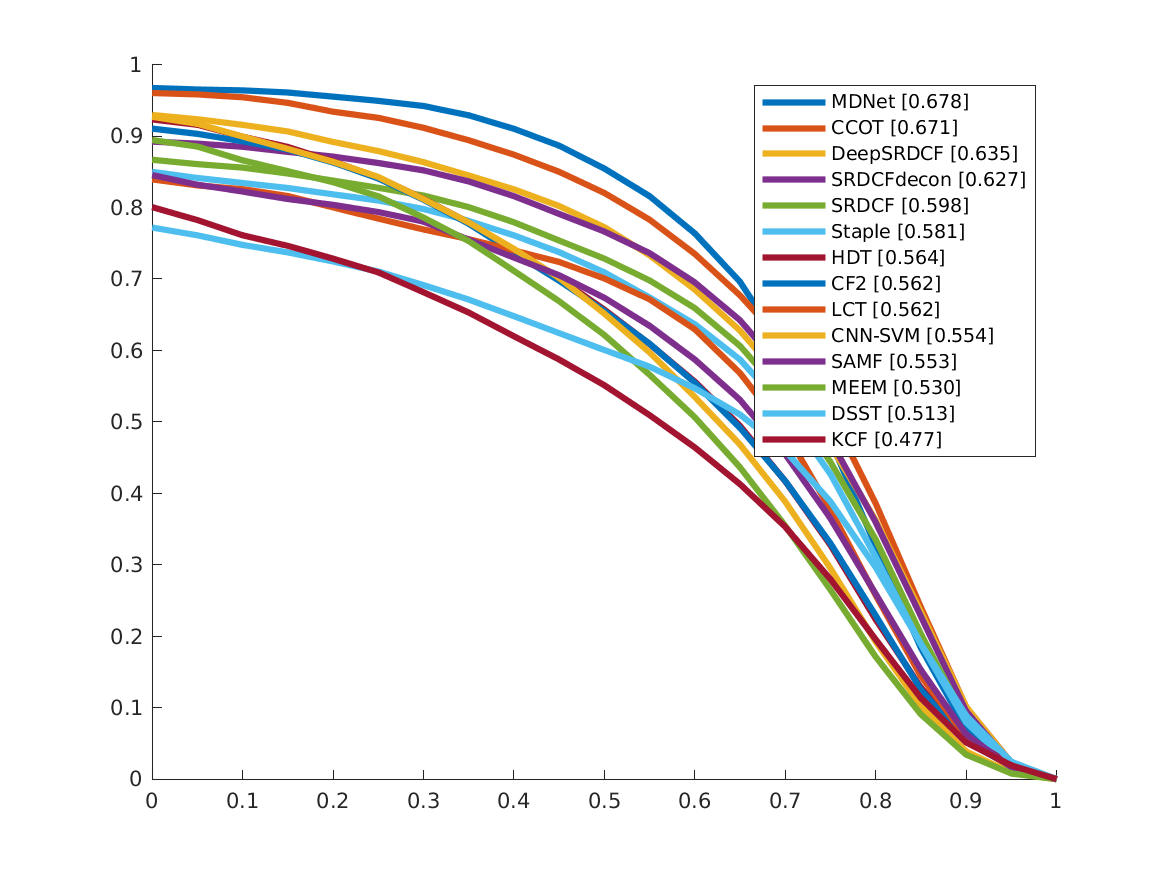
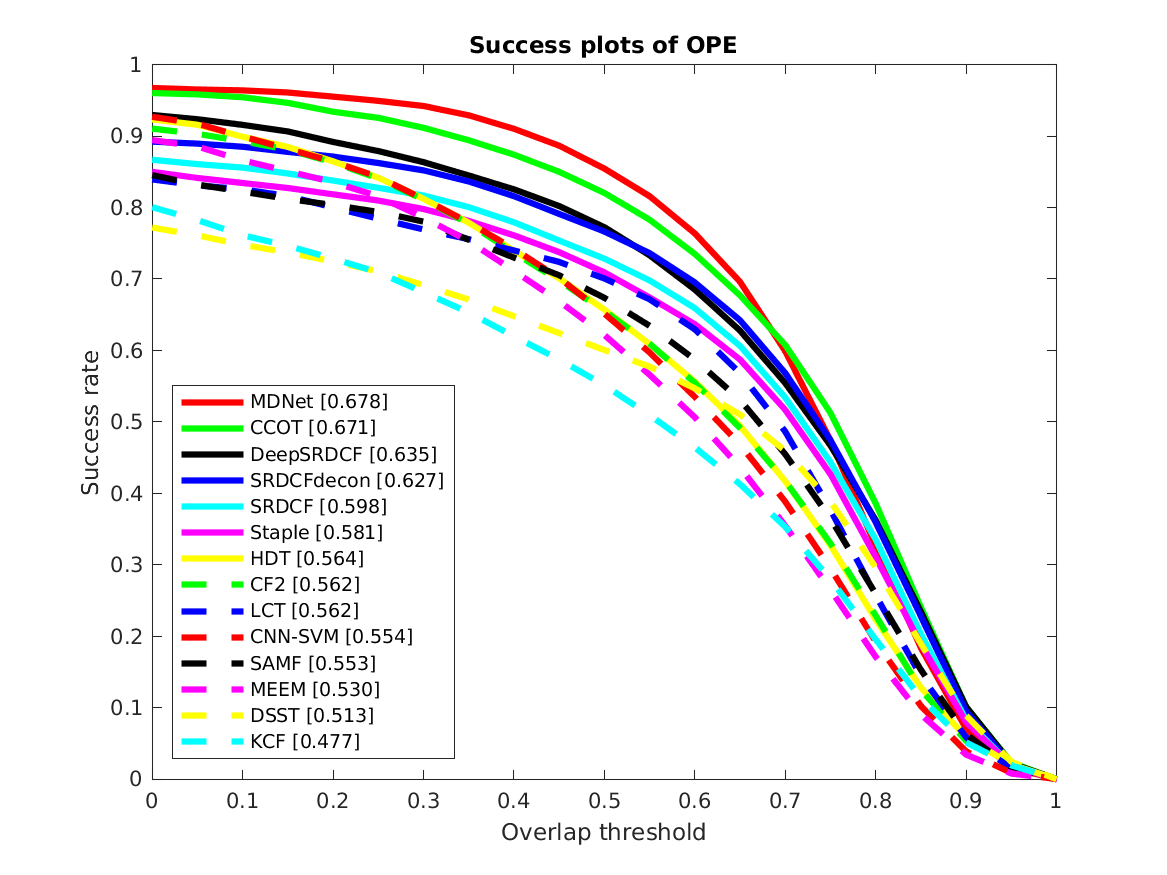
Apply linespecs when drawing the plot

diff --git a/configs/config_linespecs.m b/configs/config_linespecs.m
@@ -1,35 +1,31 @@
 function linespecs = config_linespecs
-    register('linespecs', get_linespec('-', 'red'));
-    register('linespecs', get_linespec('-', 'green'));
-    register('linespecs', get_linespec('-', 'blue'));
-    register('linespecs', get_linespec('-', 'black'));
-    register('linespecs', get_linespec('-', 'purple'));
-    register('linespecs', get_linespec('-', 'brown'));
-    register('linespecs', get_linespec('-', 'yellow'));
-    register('linespecs', get_linespec('--', 'red'));
-    register('linespecs', get_linespec('--', 'green'));
-    register('linespecs', get_linespec('--', 'blue'));
-    register('linespecs', get_linespec('--', 'black'));
-    register('linespecs', get_linespec('--', 'purple'));
-    register('linespecs', get_linespec('--', 'brown'));
-    register('linespecs', get_linespec('--', 'yellow'));
-    register('linespecs', get_linespec('-.', 'red'));
-    register('linespecs', get_linespec('-.', 'green'));
-    register('linespecs', get_linespec('-.', 'blue'));
-    register('linespecs', get_linespec('-.', 'black'));
-    register('linespecs', get_linespec('-.', 'purple'));
-    register('linespecs', get_linespec('-.', 'brown'));
-    register('linespecs', get_linespec('-.', 'yellow'));
+    register('linespecs', get_linespec('-', 'r'));
+    register('linespecs', get_linespec('-', 'g'));
+    register('linespecs', get_linespec('-', 'b'));
+    register('linespecs', get_linespec('-', 'y'));
+    register('linespecs', get_linespec('-', 'm'));
+    register('linespecs', get_linespec('-', 'c'));
+    register('linespecs', get_linespec('-', 'k'));
+    register('linespecs', get_linespec('--', 'r'));
+    register('linespecs', get_linespec('--', 'g'));
+    register('linespecs', get_linespec('--', 'b'));
+    register('linespecs', get_linespec('--', 'y'));
+    register('linespecs', get_linespec('--', 'm'));
+    register('linespecs', get_linespec('--', 'c'));
+    register('linespecs', get_linespec('--', 'k'));
+    register('linespecs', get_linespec('-.', 'r'));
+    register('linespecs', get_linespec('-.', 'g'));
+    register('linespecs', get_linespec('-.', 'b'));
+    register('linespecs', get_linespec('-.', 'y'));
+    register('linespecs', get_linespec('-.', 'm'));
+    register('linespecs', get_linespec('-.', 'c'));
+    register('linespecs', get_linespec('-.', 'k'));
 
     linespecs = register('linespecs');
     register('linespecs', 'clear');
 end
 
 function linespec = get_linespec(style, color)
-    linespec = struct(...
-        'lineWidth',    2,...
-        'lineStyle',    style,...
-        'color',        color,...
-    );
+    linespec = struct('lineWidth', 3, 'lineStyle', style, 'color', color);
 end
 

diff --git a/evals/OPE_drawplot.m b/evals/OPE_drawplot.m
@@ -1,4 +1,4 @@
-function OPE_drawplot(sequences, trackers)
+function OPE_drawplot(sequences, trackers, linespecs)
 % perfmat (nTrk, nSeq) cell of [1 x nPts]
 
 evalType = 'OPE';
@@ -33,10 +33,14 @@ success = squeeze(mean(success,3));
 
 h = figure; hold on;
 for itrk = rank'
-    plot(thresholdSetOverlap, success(itrk,:), 'lineWidth', 3); hold on;
+    plot(thresholdSetOverlap, success(itrk,:), linespecs{itrk}); hold on;
 end
 
-legend(nameTrkAll(rank));
+legend(nameTrkAll(rank), 'Location', 'southwest');
+box on;
+title('Success plots of OPE');
+xlabel('Overlap threshold');
+ylabel('Success rate');
 saveas(h,fullfile(figure_path, 'success_plot'),'png');
 end
 

diff --git a/run_OPE.m b/run_OPE.m
@@ -2,6 +2,7 @@ startup;
 
 trackers = config_trackers;
 sequences = config_sequences;
+linespecs = config_linespecs;
 
 trackers = trackers(1:end);
 sequences = sequences(1:end);
@@ -13,5 +14,5 @@ OPE_evaluate(sequences, trackers);
 OPE_perfmat(sequences, trackers);
 
 % draw performance plots
-OPE_drawplot(sequences, trackers);
+OPE_drawplot(sequences, trackers, linespecs);
 
